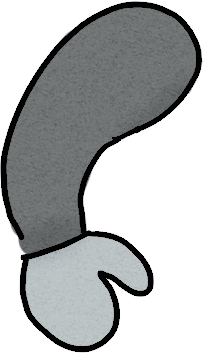
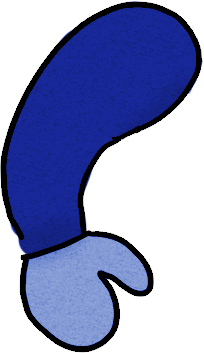
Updated player assets

diff --git a/Assets/Scripts/Movement.cs b/Assets/Scripts/Movement.cs
@@ -55,6 +55,16 @@ public class Movement : MonoBehaviour
         rigidBody.velocity = new Vector2(xInput * playerSpeed, rigidBody.velocity.y);
 
         // TODO: Limit y velocity to player speed
+        //var velocityY = Mathf.Abs(rigidBody.velocity.y);
+
+        //if (velocityY > maxSpeed)
+        //{
+        //    var brakingForce = new Vector2(0f, Mathf.Sign(velocityY) * (maxSpeed - velocityY) / Time.fixedDeltaTime);
+
+        //    Debug.Log("Braking force: " + brakingForce.y);
+
+        //    rigidBody.AddForce(brakingForce);
+        //}
 
         if (jump)
         {
@@ -66,8 +76,13 @@ public class Movement : MonoBehaviour
         {
             Flip();
         }
+
+        //if (rigidBody.velocity.y != 0)
+        //{
+        //    Debug.Log("velocity y: " + rigidBody.velocity.y);
+        //}
     }
-        
+
     private void Flip()
     {
         facingRight = !facingRight;
